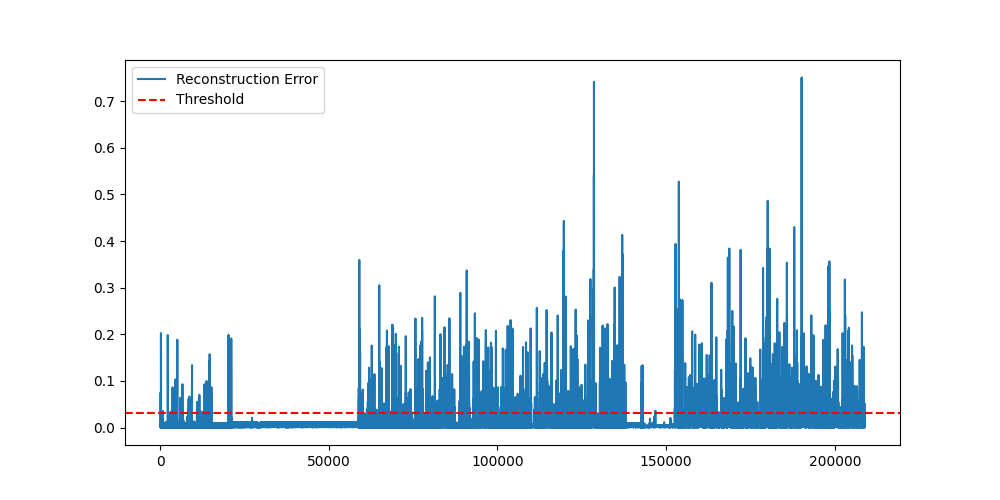
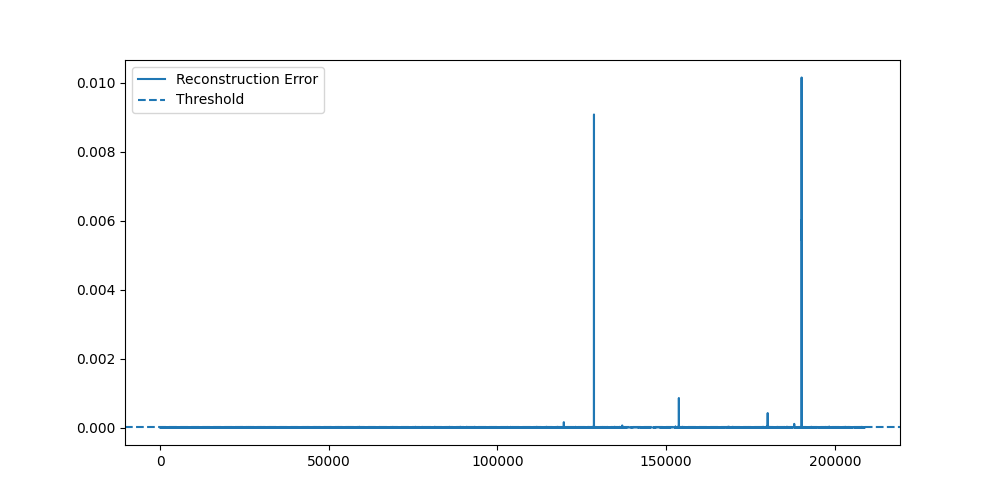
this is chaged

diff --git a/main.py b/main.py
@@ -1,11 +1,27 @@
+from src.preprocess import load_data, preprocess_data
+from src.model import build_model, train_model
+from src.detect import detect_anomalies
+
 import os
 from tensorflow.keras.models import load_model
 
+
+print("Loading data...")
+data = load_data()
+
+print("Preprocessing...")
+X_train, X_test = preprocess_data(data)
+
+# Check if model already exists
 if os.path.exists("model.h5"):
     print("Loading saved model...")
     model = load_model("model.h5")
 else:
-    print("Training new model...")
+    print("Building model...")
     model = build_model(X_train.shape[1])
+
+    print("Training model...")
     train_model(model, X_train)
-    model.save("model.h5")
+
+print("Detecting anomalies...")
+detect_anomalies(model, X_test)
